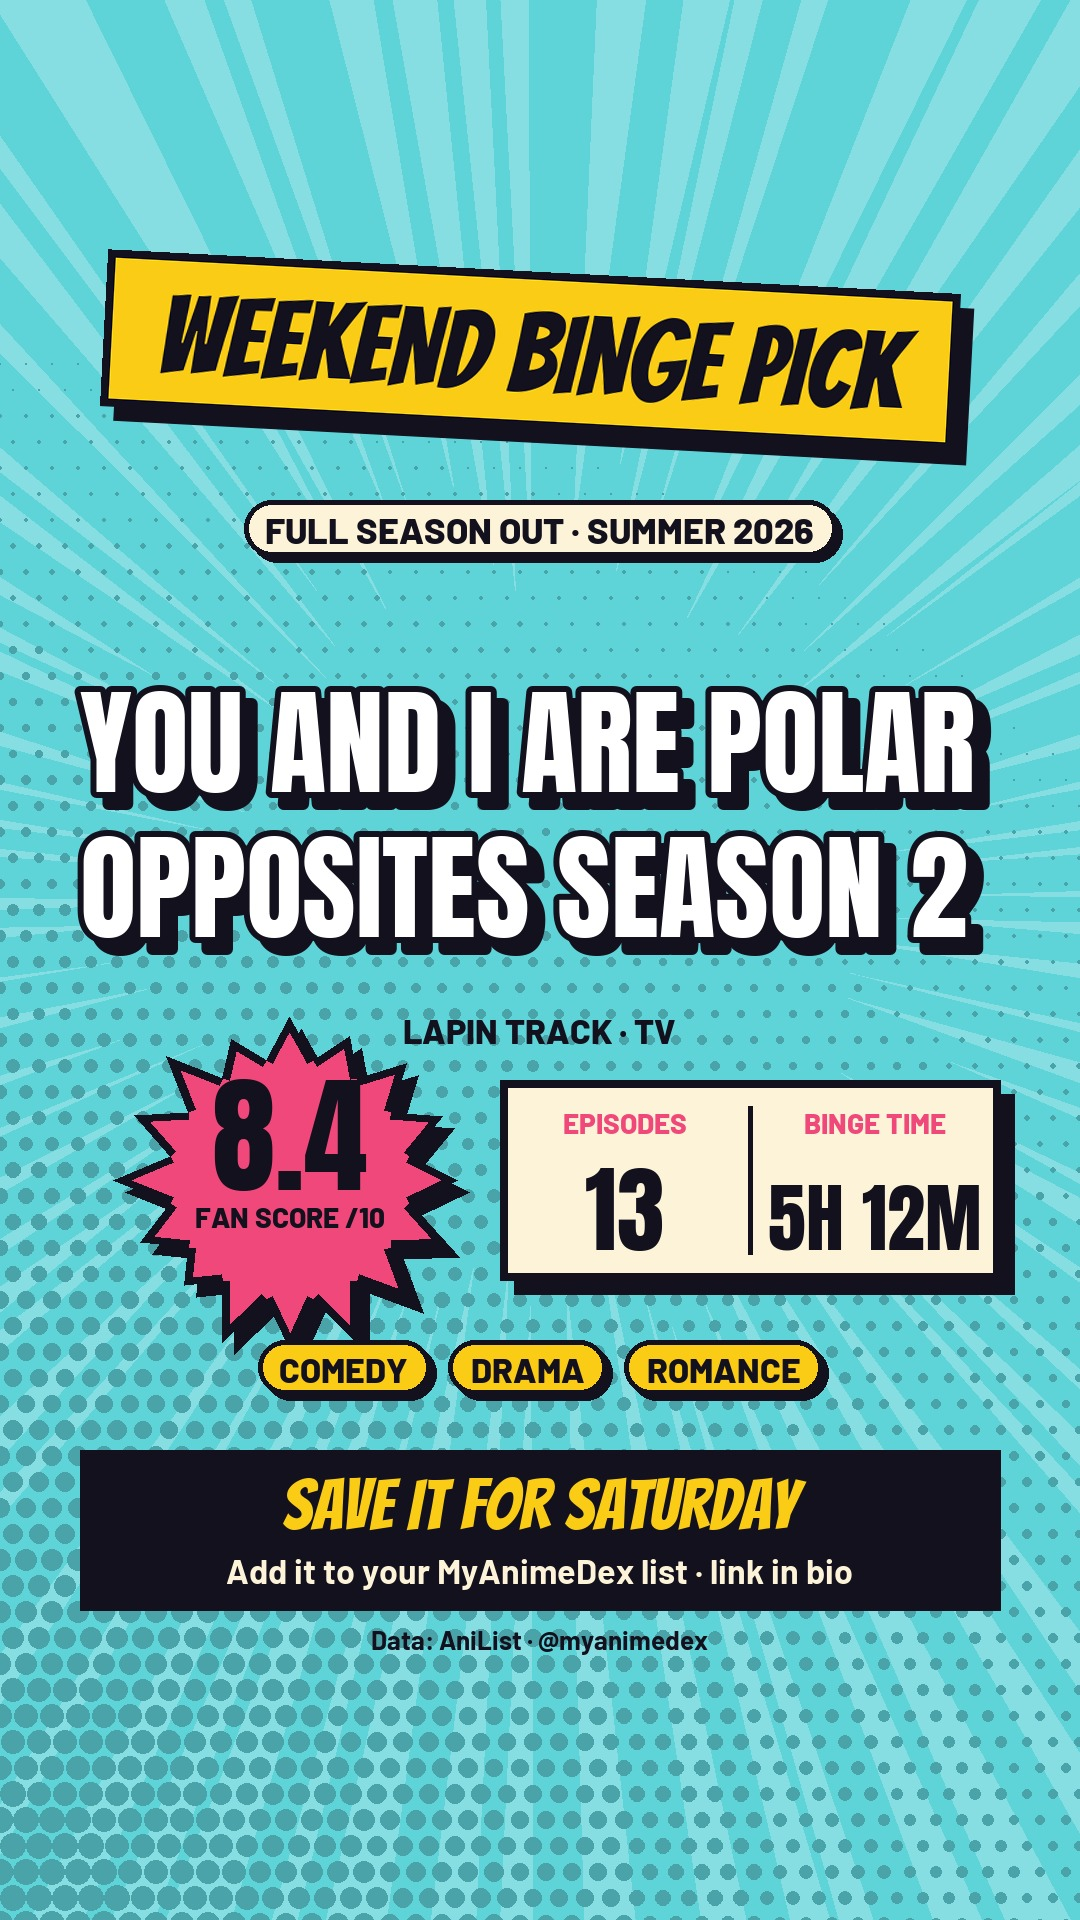
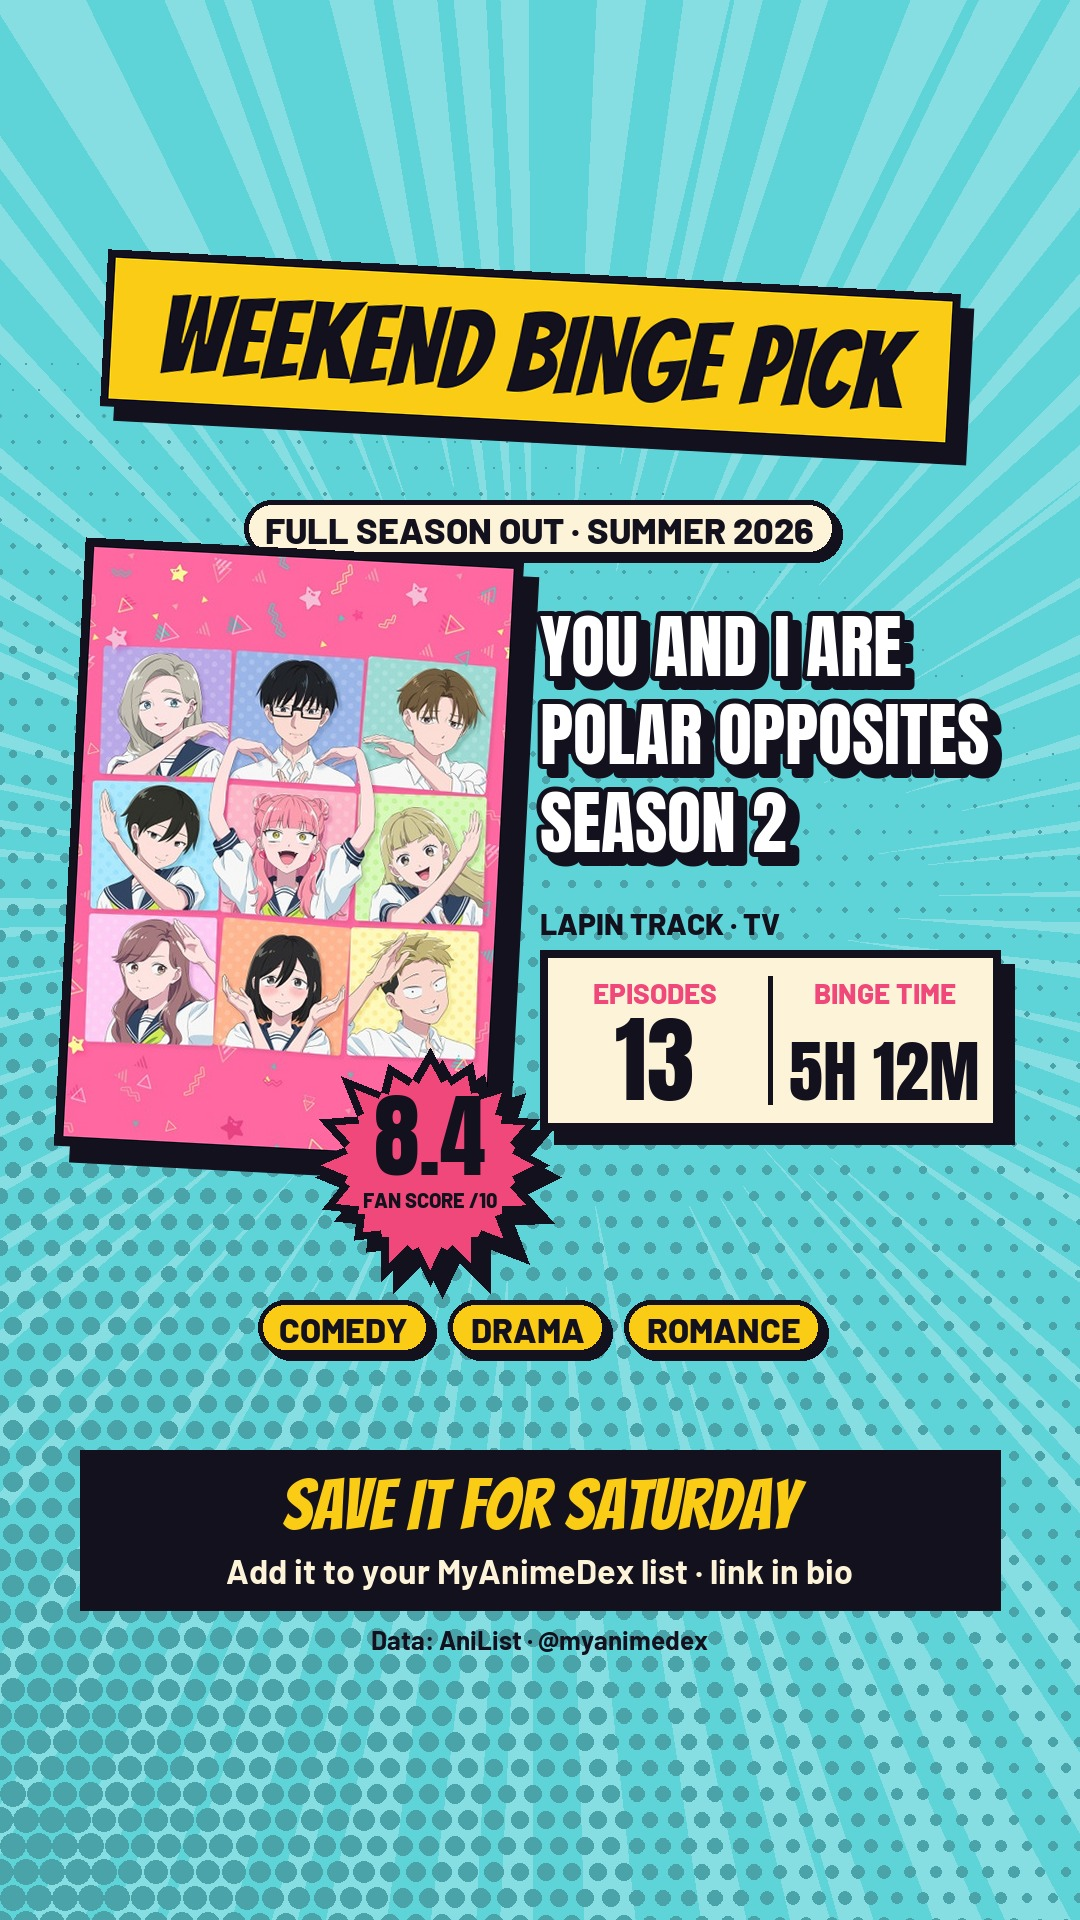
feat: show the official anime cover on every anime template
Airing-this-week and Top 5 slides, anime-of-the-day, weekend pick and A/B
stories now include the AniList cover (cached; falls back to the
typographic layout if a cover can't be downloaded). Locked W44 plan gets
cover URLs without changing its picks.

diff --git a/src/mad/render/templates.py b/src/mad/render/templates.py
@@ -10,6 +10,7 @@ from typing import Any
 
 from ..captions import display_title, score10, season_label
 from ..config import settings
+from ..covers import cover_path
 from .base import (ACCENTS, CREAM, INK, MAGENTA, TEAL, WHITE, YELLOW, Canvas, font, mix,
                    resolve)
 
@@ -153,21 +154,34 @@ def _airing_slide(m, i) -> Canvas:
     accent = ACCENTS[i % 3]
     c = Canvas(POST, INK)
     c.halftone(mix(INK, accent, 0.4), origin="tr", max_r=13, spacing=28)
-    c.burst((175, 190), 135, 98, points=14, fill=accent, shadow=(10, 10), seed=i + 1)
-    c.text((175, 192), f"{i + 1:02d}", "display", 112, fill=INK, anchor="mm")
+    cover = cover_path(m)
     ep = m["airing"]["episode"]
-    c.chip((1020, 110), f"EP {ep}  ·  {m['airing_day'].upper()}", name="display", size=56,
-           fill=CREAM, anchor="ra", pad=(28, 14))
-    c.text((1020, 250), "NEW EPISODE THIS WEEK", "body_xbold", 32, fill=accent, anchor="ra")
-    c.text_block((70, 360, 1010, 790), display_title(m).upper(), "display", 150, 62, fill=WHITE,
-                 valign="middle", shadow=(9, 9), max_lines=4)
-    stat_columns(c, (70, 830, 1010, 1060),
+    if cover:
+        c.poster(cover, (70, 140, 450, 680), angle=-2, shadow_color=accent)
+        c.burst((105, 160), 82, 60, points=14, fill=accent, shadow=(8, 8), seed=i + 1)
+        c.text((105, 162), f"{i + 1:02d}", "display", 68, fill=INK, anchor="mm")
+        c.chip((1010, 140), f"EP {ep}  ·  {m['airing_day'].upper()}", name="display", size=52,
+               fill=CREAM, anchor="ra", pad=(26, 12))
+        c.text((1010, 262), "NEW EPISODE THIS WEEK", "body_xbold", 28, fill=accent, anchor="ra")
+        c.text_block((500, 300, 1010, 700), display_title(m).upper(), "display", 116, 46, fill=WHITE,
+                     valign="middle", shadow=(7, 7), max_lines=5)
+        top = 750
+    else:
+        c.burst((175, 190), 135, 98, points=14, fill=accent, shadow=(10, 10), seed=i + 1)
+        c.text((175, 192), f"{i + 1:02d}", "display", 112, fill=INK, anchor="mm")
+        c.chip((1020, 110), f"EP {ep}  ·  {m['airing_day'].upper()}", name="display", size=56,
+               fill=CREAM, anchor="ra", pad=(28, 14))
+        c.text((1020, 250), "NEW EPISODE THIS WEEK", "body_xbold", 32, fill=accent, anchor="ra")
+        c.text_block((70, 360, 1010, 790), display_title(m).upper(), "display", 150, 62, fill=WHITE,
+                     valign="middle", shadow=(9, 9), max_lines=4)
+        top = 830
+    stat_columns(c, (70, top, 1010, top + 220),
                  [("FAN SCORE", score10(m) or "NEW"), ("ON LISTS", fmt_count(m.get("popularity"))),
                   ("EPISODES", episodes_label(m))])
-    genre_chips(c, 1105, m.get("genres"), fill=accent)
+    genre_chips(c, top + 270, m.get("genres"), fill=accent)
     meta = "  ·  ".join(x for x in [m.get("studio"), (m.get("format") or "").replace("_", " ")] if x)
     if meta:
-        c.text((70, 1215), meta.upper(), "body_bold", 32, fill=mix(CREAM, INK, 0.25), anchor="la")
+        c.text((70, top + 385), meta.upper(), "body_bold", 32, fill=mix(CREAM, INK, 0.25), anchor="la")
     footer(c)
     return c
 
@@ -213,15 +227,25 @@ def _movement(m) -> tuple[str, tuple]:
 def _top5_slide(m, data) -> Canvas:
     rank = m["rank"]
     accent = [YELLOW, MAGENTA, TEAL, YELLOW, MAGENTA][rank - 1]
+    burst_fill = YELLOW if accent != YELLOW else TEAL
     c = Canvas(POST, CREAM)
     c.halftone(mix(CREAM, accent, 0.55), origin="bl", max_r=13, spacing=28)
     c.text((60, 40), "TOP 5 THIS SEASON", "comic", 56, fill=INK, anchor="la")
-    c.text((70, 450), f"#{rank}", "display", 360, fill=accent, anchor="ls", stroke=10, shadow=(16, 16))
-    score_burst(c, (800, 320), m, r=185, fill=YELLOW if accent != YELLOW else TEAL, seed=rank)
     label, color = _movement(m)
-    c.chip((76, 500), label, size=36, fill=color, fg=WHITE if color == MAGENTA else INK)
-    c.text_block((70, 600, 1010, 960), display_title(m).upper(), "display", 140, 60, fill=INK,
-                 valign="middle", max_lines=4)
+    cover = cover_path(m)
+    if cover:
+        c.poster(cover, (70, 130, 450, 670), angle=-3, shadow_color=accent)
+        c.text((490, 420), f"#{rank}", "display", 300, fill=accent, anchor="ls", stroke=10, shadow=(14, 14))
+        c.chip((498, 462), label, size=34, fill=color, fg=WHITE if color == MAGENTA else INK)
+        score_burst(c, (850, 600), m, r=135, fill=burst_fill, seed=rank)
+        c.text_block((70, 700, 1010, 965), display_title(m).upper(), "display", 112, 50, fill=INK,
+                     valign="middle", max_lines=3)
+    else:
+        c.text((70, 450), f"#{rank}", "display", 360, fill=accent, anchor="ls", stroke=10, shadow=(16, 16))
+        score_burst(c, (800, 320), m, r=185, fill=burst_fill, seed=rank)
+        c.chip((76, 500), label, size=36, fill=color, fg=WHITE if color == MAGENTA else INK)
+        c.text_block((70, 600, 1010, 960), display_title(m).upper(), "display", 140, 60, fill=INK,
+                     valign="middle", max_lines=4)
     stat_columns(c, (70, 990, 1010, 1170),
                  [("ON LISTS", fmt_count(m.get("popularity"))), ("EPISODES", episodes_label(m)),
                   ("STUDIO", (m.get("studio") or "-").upper())],
@@ -289,6 +313,28 @@ def story_credit(c: Canvas, fg=INK, data_credit=True):
     c.text((c.w / 2, c.h - SAFE - 20), text, "body_bold", 26, fill=fg, anchor="ms")
 
 
+def _story_anime_body(c: Canvas, m, stats, burst_fill, studio_fg, accent):
+    """Poster (when available), title, score, stats and genres for single-anime stories."""
+    cover = cover_path(m)
+    if cover:
+        c.poster(cover, (80, 560, 500, 1150), angle=-3, shadow_color=INK)
+        c.text_block((540, 570, 1000, 880), display_title(m).upper(), "display", 112, 46, fill=WHITE,
+                     valign="middle", stroke=5, shadow=(9, 9), max_lines=5)
+        meta = "  ·  ".join(x for x in [m.get("studio"), (m.get("format") or "").replace("_", " ")] if x)
+        if meta:
+            c.text((540, 905), meta.upper()[:30], "body_xbold", 30, fill=studio_fg, anchor="la")
+        stat_columns(c, (540, 950, 1000, 1130), stats, label_fg=accent)
+        score_burst(c, (430, 1165), m, r=118, fill=burst_fill)
+        genre_chips(c, 1300, m.get("genres"), fill=YELLOW, center=True, size=34)
+    else:
+        c.text_block((80, 600, 1000, 1000), display_title(m).upper(), "display", 160, 64, fill=WHITE,
+                     valign="middle", stroke=6, shadow=(12, 12), max_lines=4)
+        studio_line(c, m, 1030, fg=studio_fg)
+        score_burst(c, (290, 1180), m, r=165, fill=burst_fill)
+        stat_columns(c, (500, 1080, 1000, 1280), stats, label_fg=accent)
+        genre_chips(c, 1340, m.get("genres"), fill=YELLOW, center=True, size=34)
+
+
 def render_story_anime_of_day(data, out_dir):
     m = data["anime"]
     c = story_canvas(MAGENTA)
@@ -297,14 +343,8 @@ def render_story_anime_of_day(data, out_dir):
     banner(c, (540, SAFE + 110), "ANIME OF THE DAY", 118, fill=INK, fg=YELLOW, angle=-3)
     c.chip((540, SAFE + 250), f"{season_label(data['season'], data['year']).upper()}  ·  AIRING NOW",
            size=36, fill=CREAM, anchor="ma")
-    c.text_block((80, 600, 1000, 1000), display_title(m).upper(), "display", 160, 64, fill=WHITE,
-                 valign="middle", stroke=6, shadow=(12, 12), max_lines=4)
-    studio_line(c, m, 1030, fg=WHITE)
-    score_burst(c, (290, 1180), m, r=165)
-    stat_columns(c, (500, 1080, 1000, 1280),
-                 [("ON LISTS", fmt_count(m.get("popularity"))), ("EPISODES", episodes_label(m))],
-                 label_fg=MAGENTA)
-    genre_chips(c, 1340, m.get("genres"), fill=YELLOW, center=True, size=34)
+    _story_anime_body(c, m, [("ON LISTS", fmt_count(m.get("popularity"))), ("EPISODES", episodes_label(m))],
+                      burst_fill=YELLOW, studio_fg=WHITE, accent=MAGENTA)
     c.panel((80, 1450, 1000, 1610), fill=INK, shadow=0, border=8)
     c.text((540, 1505), "ADD IT TO YOUR WATCHLIST", "condensed", 60, fill=YELLOW, anchor="mm")
     c.text((540, 1570), "MyAnimeDex  ·  link in bio", "body_bold", 36, fill=CREAM, anchor="mm")
@@ -349,17 +389,28 @@ def render_story_your_pick(data, out_dir):
     c.d.line([(0, 1030), (1080, 900)], fill=INK, width=16)
     banner(c, (540, SAFE + 95), "WHICH ONE ARE YOU", 92, fill=INK, fg=YELLOW, angle=-2)
     banner(c, (540, SAFE + 225), "WATCHING THIS WEEK?", 92, fill=INK, fg=YELLOW, angle=-2)
-    for letter, m, top, fill in (("A", a, 510, TEAL), ("B", b, 1110, MAGENTA)):
-        c.burst((170, top + 160), 125, 92, points=12, fill=CREAM, shadow=(10, 10), seed=ord(letter))
-        c.text((170, top + 165), letter, "comic", 150, fill=INK, anchor="mm")
-        c.text_block((330, top, 1010, top + 250), display_title(m).upper(), "display", 104, 48, fill=WHITE,
+    rows = (("A", a, 600, -3), ("B", b, 1110, 3))
+    with_covers = all(cover_path(m) for _, m, _, _ in rows)
+    for letter, m, top, angle in rows:
+        if with_covers:
+            c.poster(cover_path(m), (90, top - 25, 330, top + 315), angle=angle)
+            c.burst((100, top - 15), 66, 48, points=12, fill=CREAM, shadow=(7, 7), seed=ord(letter))
+            c.text((100, top - 11), letter, "comic", 84, fill=INK, anchor="mm")
+            text_x, title_box, meta_y = 380, (380, top, 1010, top + 230), top + 262
+        else:
+            top -= 90 if letter == "A" else 0
+            c.burst((170, top + 160), 125, 92, points=12, fill=CREAM, shadow=(10, 10), seed=ord(letter))
+            c.text((170, top + 165), letter, "comic", 150, fill=INK, anchor="mm")
+            text_x, title_box, meta_y = 330, (330, top, 1010, top + 250), top + 285
+        c.text_block(title_box, display_title(m).upper(), "display", 104, 48, fill=WHITE,
                      valign="middle", stroke=5, shadow=(8, 8), max_lines=3)
         meta = "  ·  ".join(x for x in [f"{score10(m)}/10" if score10(m) else None,
                                          f"{fmt_count(m.get('popularity'))} ON LISTS",
                                          f"EP {m['nextAiringEpisode']['episode']} NEXT" if m.get("nextAiringEpisode") else None] if x)
-        c.text((330, top + 285), meta, "body_xbold", 34, fill=INK, anchor="la")
-    c.burst((540, 968), 110, 80, points=16, fill=YELLOW, shadow=(10, 10), seed=9)
-    c.text((540, 972), "VS", "comic", 100, fill=INK, anchor="mm")
+        c.text((text_x, meta_y), meta, "body_xbold", 32, fill=INK, anchor="la")
+    vs = (930, 950) if with_covers else (540, 968)
+    c.burst(vs, 100, 74, points=16, fill=YELLOW, shadow=(10, 10), seed=9)
+    c.text((vs[0], vs[1] + 4), "VS", "comic", 92, fill=INK, anchor="mm")
     c.chip((540, 1480), "REPLY WITH  A  OR  B", name="comic", size=78, fill=YELLOW, anchor="ma",
            pad=(40, 16))
     c.text((540, 1625), "Data: AniList  ·  " + HANDLE, "body_bold", 26, fill=WHITE, anchor="ms")
@@ -402,16 +453,10 @@ def render_story_weekend(data, out_dir):
     banner(c, (540, SAFE + 110), "WEEKEND BINGE PICK", 110, fill=YELLOW, fg=INK, angle=-3)
     season = f"{(m.get('season') or '').title()} {m.get('seasonYear') or ''}".strip()
     c.chip((540, SAFE + 250), f"FULL SEASON OUT  ·  {season.upper()}", size=36, fill=CREAM, anchor="ma")
-    c.text_block((80, 600, 1000, 1000), display_title(m).upper(), "display", 160, 64, fill=WHITE,
-                 valign="middle", stroke=6, shadow=(12, 12), max_lines=4)
-    studio_line(c, m, 1030, fg=INK)
-    score_burst(c, (290, 1180), m, r=165, fill=MAGENTA)
     eps = m.get("episodes") or 0
     minutes = eps * (m.get("duration") or 24)
-    stat_columns(c, (500, 1080, 1000, 1280),
-                 [("EPISODES", str(eps)), ("BINGE TIME", f"{minutes // 60}H {minutes % 60:02d}M")],
-                 label_fg=MAGENTA)
-    genre_chips(c, 1340, m.get("genres"), fill=YELLOW, center=True, size=34)
+    _story_anime_body(c, m, [("EPISODES", str(eps)), ("BINGE TIME", f"{minutes // 60}H {minutes % 60:02d}M")],
+                      burst_fill=MAGENTA, studio_fg=INK, accent=MAGENTA)
     c.panel((80, 1450, 1000, 1610), fill=INK, shadow=0, border=8)
     c.text((540, 1505), "SAVE IT FOR SATURDAY", "comic", 70, fill=YELLOW, anchor="mm")
     c.text((540, 1570), "Add it to your MyAnimeDex list  ·  link in bio", "body_bold", 34, fill=CREAM,

diff --git a/src/mad/render/base.py b/src/mad/render/base.py
@@ -277,6 +277,26 @@ class Canvas:
         ImageDraw.Draw(mask).rounded_rectangle((0, 0, w, h), radius, fill=255)
         self.im.paste(src.resize((w, h), Image.LANCZOS), (x, y), mask)
 
+    def poster(self, path: Path, box, angle=0.0, border=9, shadow=16, shadow_color=INK):
+        """Anime cover, center-cropped to the box, inked border + hard shadow, optionally tilted."""
+        x0, y0, x1, y1 = (int(v) for v in box)
+        w, h = x1 - x0, y1 - y0
+        src = Image.open(path).convert("RGB")
+        scale = max(w / src.width, h / src.height)
+        src = src.resize((max(w, round(src.width * scale)), max(h, round(src.height * scale))), Image.LANCZOS)
+        left, top = (src.width - w) // 2, (src.height - h) // 4
+        src = src.crop((left, top, left + w, top + h))
+        size = (w + border * 2 + shadow + 4, h + border * 2 + shadow + 4)
+
+        def draw(sub: "Canvas"):
+            sub.d.rectangle((shadow, shadow, shadow + w + border * 2, shadow + h + border * 2), fill=shadow_color)
+            sub.d.rectangle((0, 0, w + border * 2, h + border * 2), fill=INK)
+            sub.im.paste(src, (border, border))
+
+        cx = x0 + w / 2 + (shadow) / 2
+        cy = y0 + h / 2 + (shadow) / 2
+        self.rotated(size, draw, (cx, cy), angle)
+
     def save(self, path: Path):
         path.parent.mkdir(parents=True, exist_ok=True)
         self.im.convert("RGB").save(path, "JPEG", quality=settings()["render"]["jpeg_quality"],

diff --git a/src/mad/covers.py b/src/mad/covers.py
@@ -1,0 +1,43 @@
+"""Anime cover images from AniList's CDN, cached on disk.
+
+A missing cover never blocks a post: callers get None and the template falls back
+to its typographic layout.
+"""
+from __future__ import annotations
+
+import time
+from pathlib import Path
+from typing import Any
+
+import requests
+from PIL import Image
+
+from .config import ROOT, warn
+
+CACHE = ROOT / ".cache" / "covers"
+
+
+def cover_path(media: dict[str, Any]) -> Path | None:
+    cover = media.get("coverImage") or {}
+    url = cover.get("extraLarge") or cover.get("large")
+    if not url:
+        return None
+    target = CACHE / f"{media['id']}.jpg"
+    if target.exists():
+        return target
+    CACHE.mkdir(parents=True, exist_ok=True)
+    for attempt in range(1, 4):
+        try:
+            resp = requests.get(url, timeout=30, headers={"User-Agent": "myanimedex-social/1.0"})
+            resp.raise_for_status()
+            tmp = target.with_suffix(".part")
+            tmp.write_bytes(resp.content)
+            Image.open(tmp).convert("RGB").save(target, "JPEG", quality=95)
+            tmp.unlink()
+            return target
+        except (requests.RequestException, OSError) as exc:
+            if attempt == 3:
+                warn(f"Cover for anime {media['id']} unavailable ({exc}); using the typographic layout")
+                return None
+            time.sleep(2 * attempt)
+    return None

diff --git a/src/mad/anilist.py b/src/mad/anilist.py
@@ -1,7 +1,7 @@
 """AniList GraphQL client: throttled, retried and disk-cached.
 
 AniList is the free replacement for Jikan (MyAnimeList's unofficial API shut down in 2026).
-Only factual fields are requested — no synopsis text, no cover/banner images.
+Only factual fields and the cover image URL are requested — never synopsis text.
 """
 from __future__ import annotations
 
@@ -37,6 +37,7 @@ MEDIA_FIELDS = """
   startDate { year month day }
   studios(isMain: true) { nodes { name } }
   nextAiringEpisode { airingAt episode }
+  coverImage { extraLarge large color }
 """
 
 _last_request_at = 0.0

diff --git a/src/mad/planner.py b/src/mad/planner.py
@@ -29,7 +29,7 @@ STORY_KINDS = ["story_anime_of_day", "story_tip", "story_your_pick", "story_down
 WEEKDAYS = ["Mon", "Tue", "Wed", "Thu", "Fri", "Sat", "Sun"]
 
 KEEP_FIELDS = ["id", "idMal", "title", "format", "status", "episodes", "season", "seasonYear",
-               "averageScore", "popularity", "duration", "genres", "siteUrl", "nextAiringEpisode", "airing"]
+               "averageScore", "popularity", "duration", "genres", "siteUrl", "nextAiringEpisode", "airing", "coverImage"]
 
 
 # ---------------------------------------------------------------- helpers

diff --git a/README.md b/README.md
@@ -51,7 +51,7 @@ AniList GraphQL ──► planner (seçim + açıklama) ──► plans/2026-W45
                state/posted_state.json (main dalına commit)
 ```
 
-- **Veri: AniList.** Jikan (MyAnimeList'in gayriresmî API'si) 2026'da kapandı. AniList ücretsizdir, anahtar istemez ve MAL ID'lerini de içerir. İstemci istekleri ~2,1 sn aralıkla gönderir, 429 ve 5xx hatalarında artan aralıklarla tekrar dener, yanıtları 6 saat diskte cache'ler (`.cache/anilist`, Actions'ta da cache'lenir). Özet metni (synopsis) ve posterler **hiç çekilmez**.
+- **Veri: AniList.** Jikan (MyAnimeList'in gayriresmî API'si) 2026'da kapandı. AniList ücretsizdir, anahtar istemez ve MAL ID'lerini de içerir. İstemci istekleri ~2,1 sn aralıkla gönderir, 429 ve 5xx hatalarında artan aralıklarla tekrar dener, yanıtları 6 saat diskte cache'ler (`.cache/anilist`, Actions'ta da cache'lenir). Özet metni (synopsis) **hiç çekilmez**; kapak görselleri `.cache/covers` altına indirilip görsele işlenir.
 - **"Üye sayısı"**: AniList `popularity` alanı, yani animeyi listesine eklemiş kullanıcı sayısı. Görsellerde "ON LISTS" olarak gösterilir.
 - **Görseller**: JPEG. Instagram API yalnızca JPEG kabul eder. Postlar 1080×1350, hikâyeler 1080×1920. Hikâyelerde üst ve alt 250 px boş bırakılır.
 - **Barındırma**: GitHub Pages, `gh-pages` dalı. Dal her seferinde tek bir commit olarak yeniden yazılır, böylece repo şişmez. 30 günden eski medya silinir.
@@ -313,6 +313,6 @@ Lokal `--dry-run` çalıştırmaları hiçbir şey yüklemez veya paylaşmaz. Pl
 - **Hikâyelerin açıklaması yoktur.** Etiketler sadece postlarda bulunur.
 - **Cron gecikmesi**: GitHub zamanlanmış işleri yoğun saatlerde 5–20 dk geç başlatabilir.
 - **60 gün kuralı**: GitHub, 60 gün commit almayan public repolarda cron'u durdurur. Bot her hafta plan ve state commit'lediği için bu olmaz.
-- **Telif**: MyAnimeList veya AniList özet metinleri kullanılmaz; sadece puan, tarih, tür, bölüm sayısı ve stüdyo gibi olgusal veriler kullanılır. Şablonlarda resmî poster veya karakter görseli kullanılmaz, tasarım tipografiktir. Uygulama ekran görüntülerindeki anime kapakları ise olduğu gibi görünür. Görsellerde küçük bir "Data: AniList" kaynak notu var.
+- **Telif**: MyAnimeList veya AniList özet metinleri kullanılmaz; sadece puan, tarih, tür, bölüm sayısı ve stüdyo gibi olgusal veriler kullanılır. Anime gösteren şablonlarda (bu haftanın yayınları, Top 5, anime of the day, weekend pick, A/B) AniList'teki resmî kapak görseli kullanılır; kapak indirilemezse o görsel tipografik düzene düşer, paylaşım durmaz. Uygulama ekran görüntülerindeki kapaklar da olduğu gibi görünür. Görsellerde küçük bir "Data: AniList" kaynak notu var.
 - **Korsan etiketleri** (`#animeizle` vb.) yasak listesindedir ve yayını engeller.
 - Graph API sürümü `config.yaml` → `instagram.graph_version`. Meta sürümleri yaklaşık 2 yıl destekler; yılda bir güncellemek yeterli.
